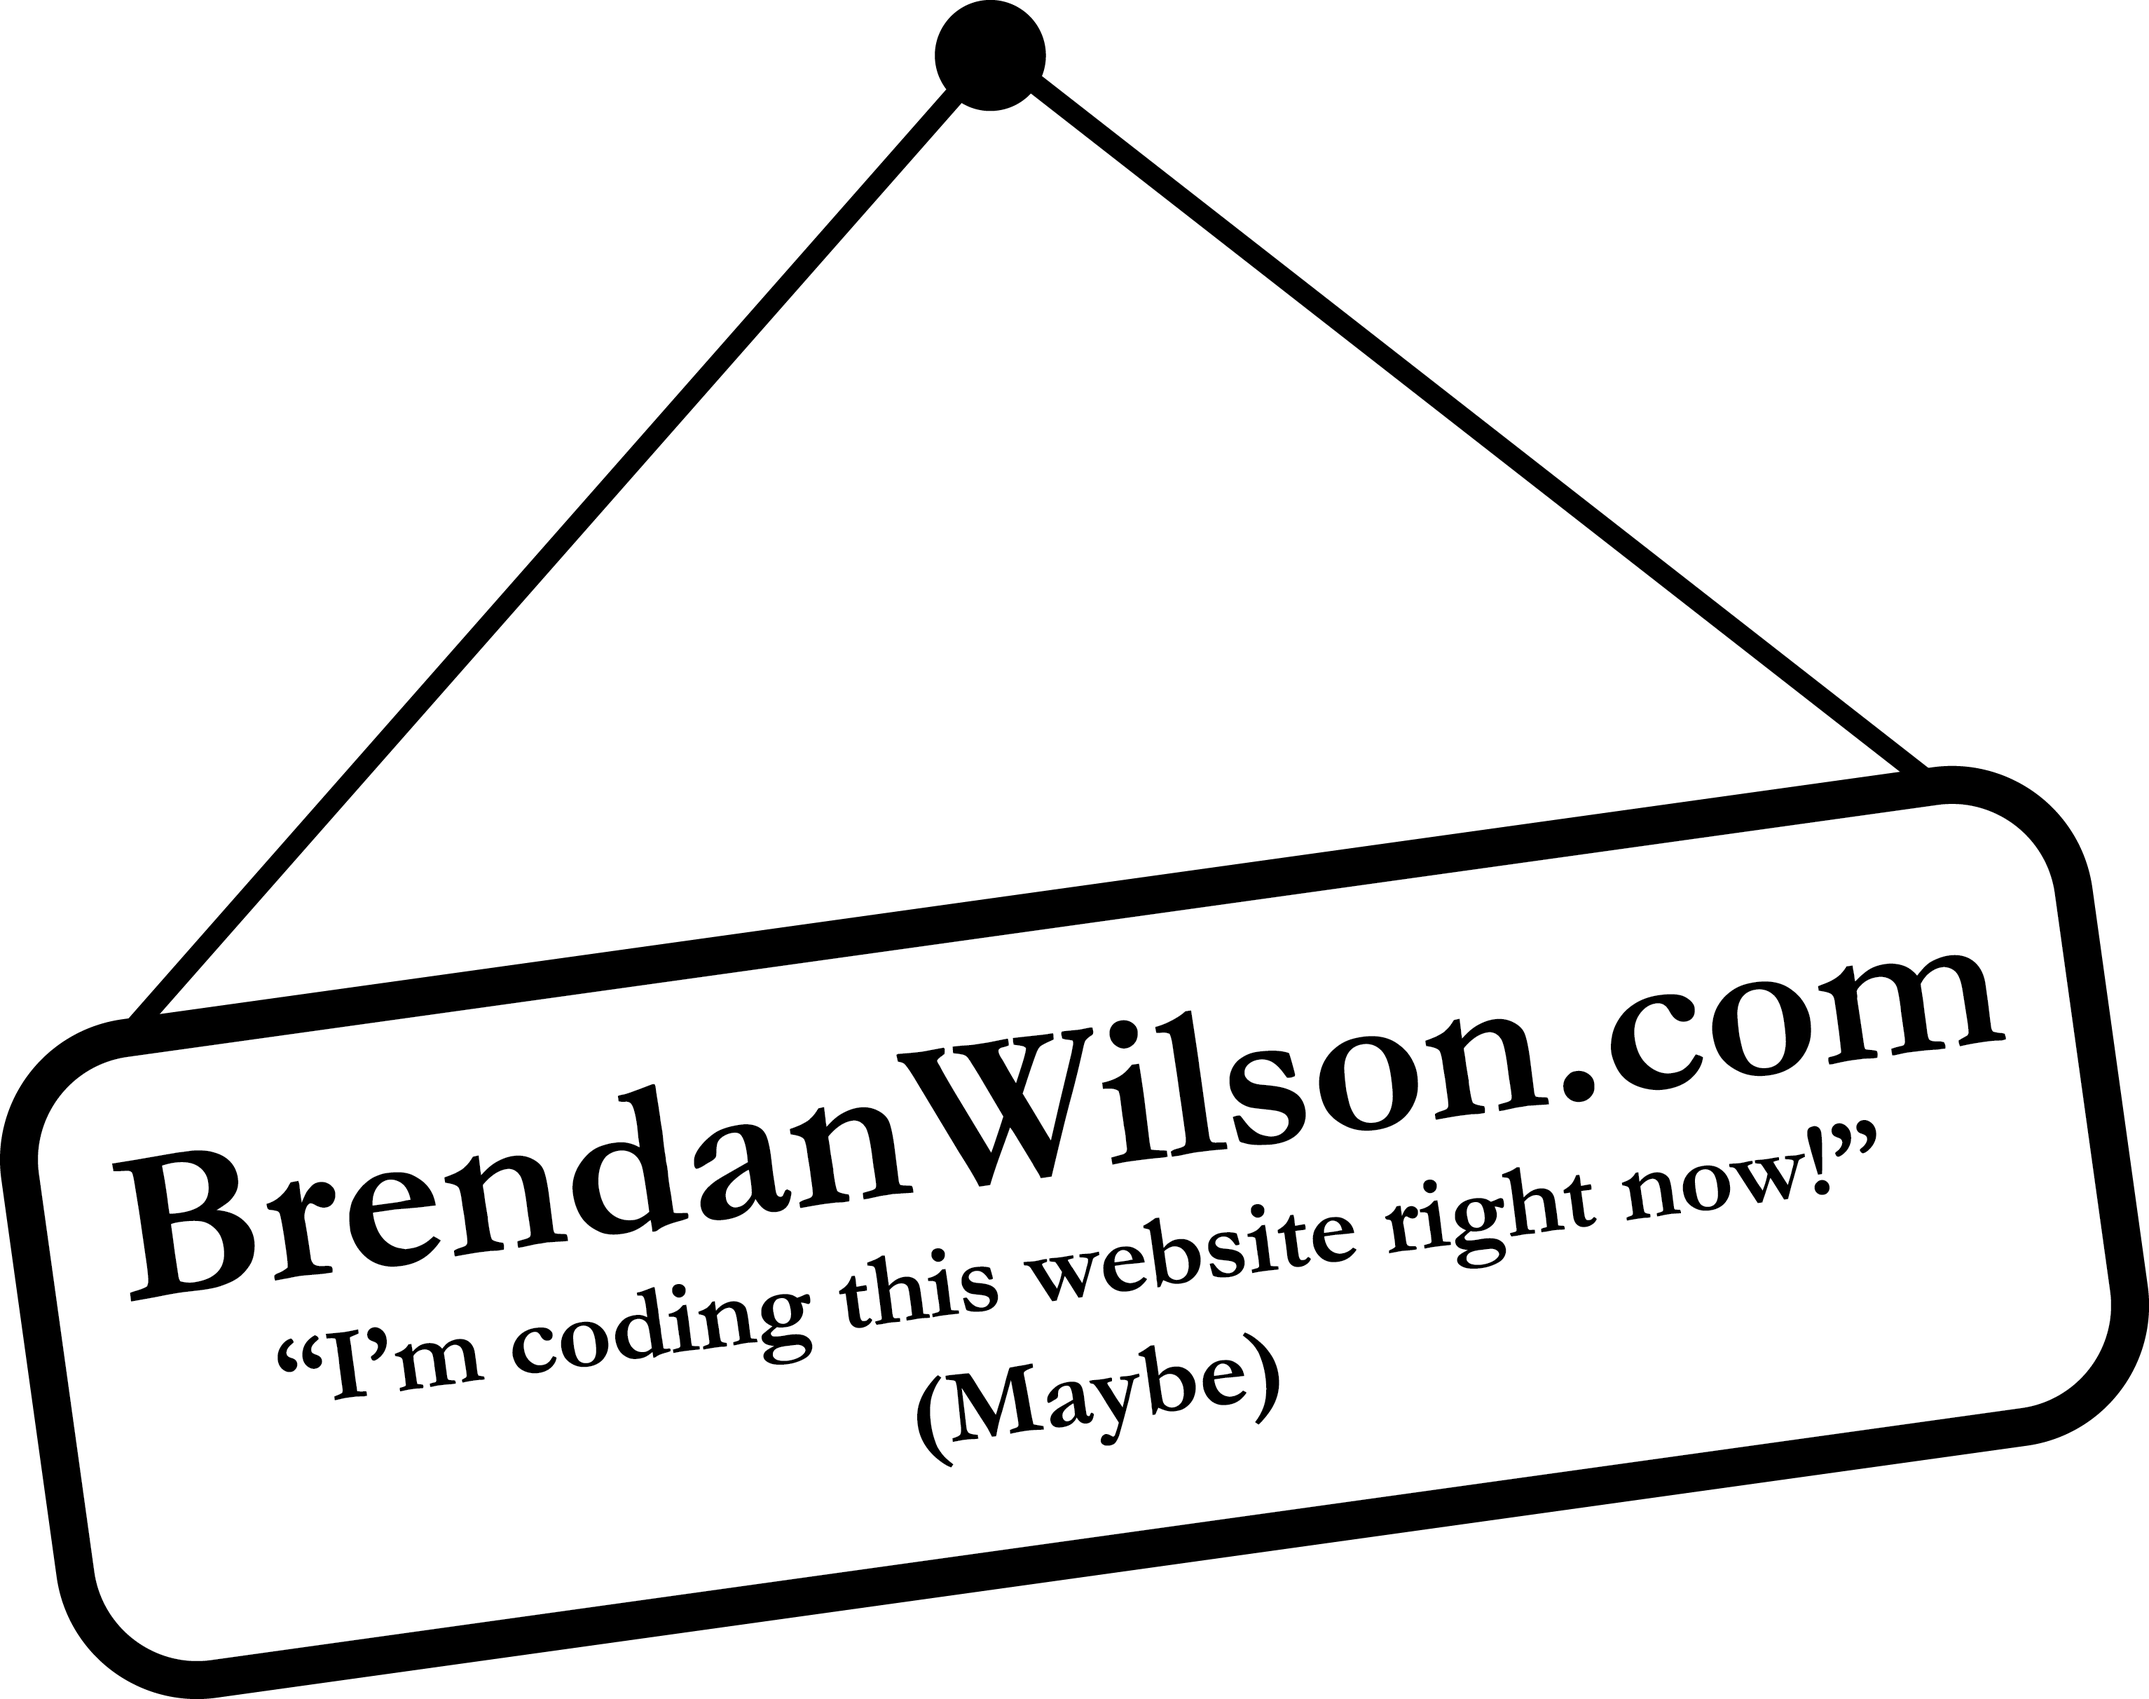
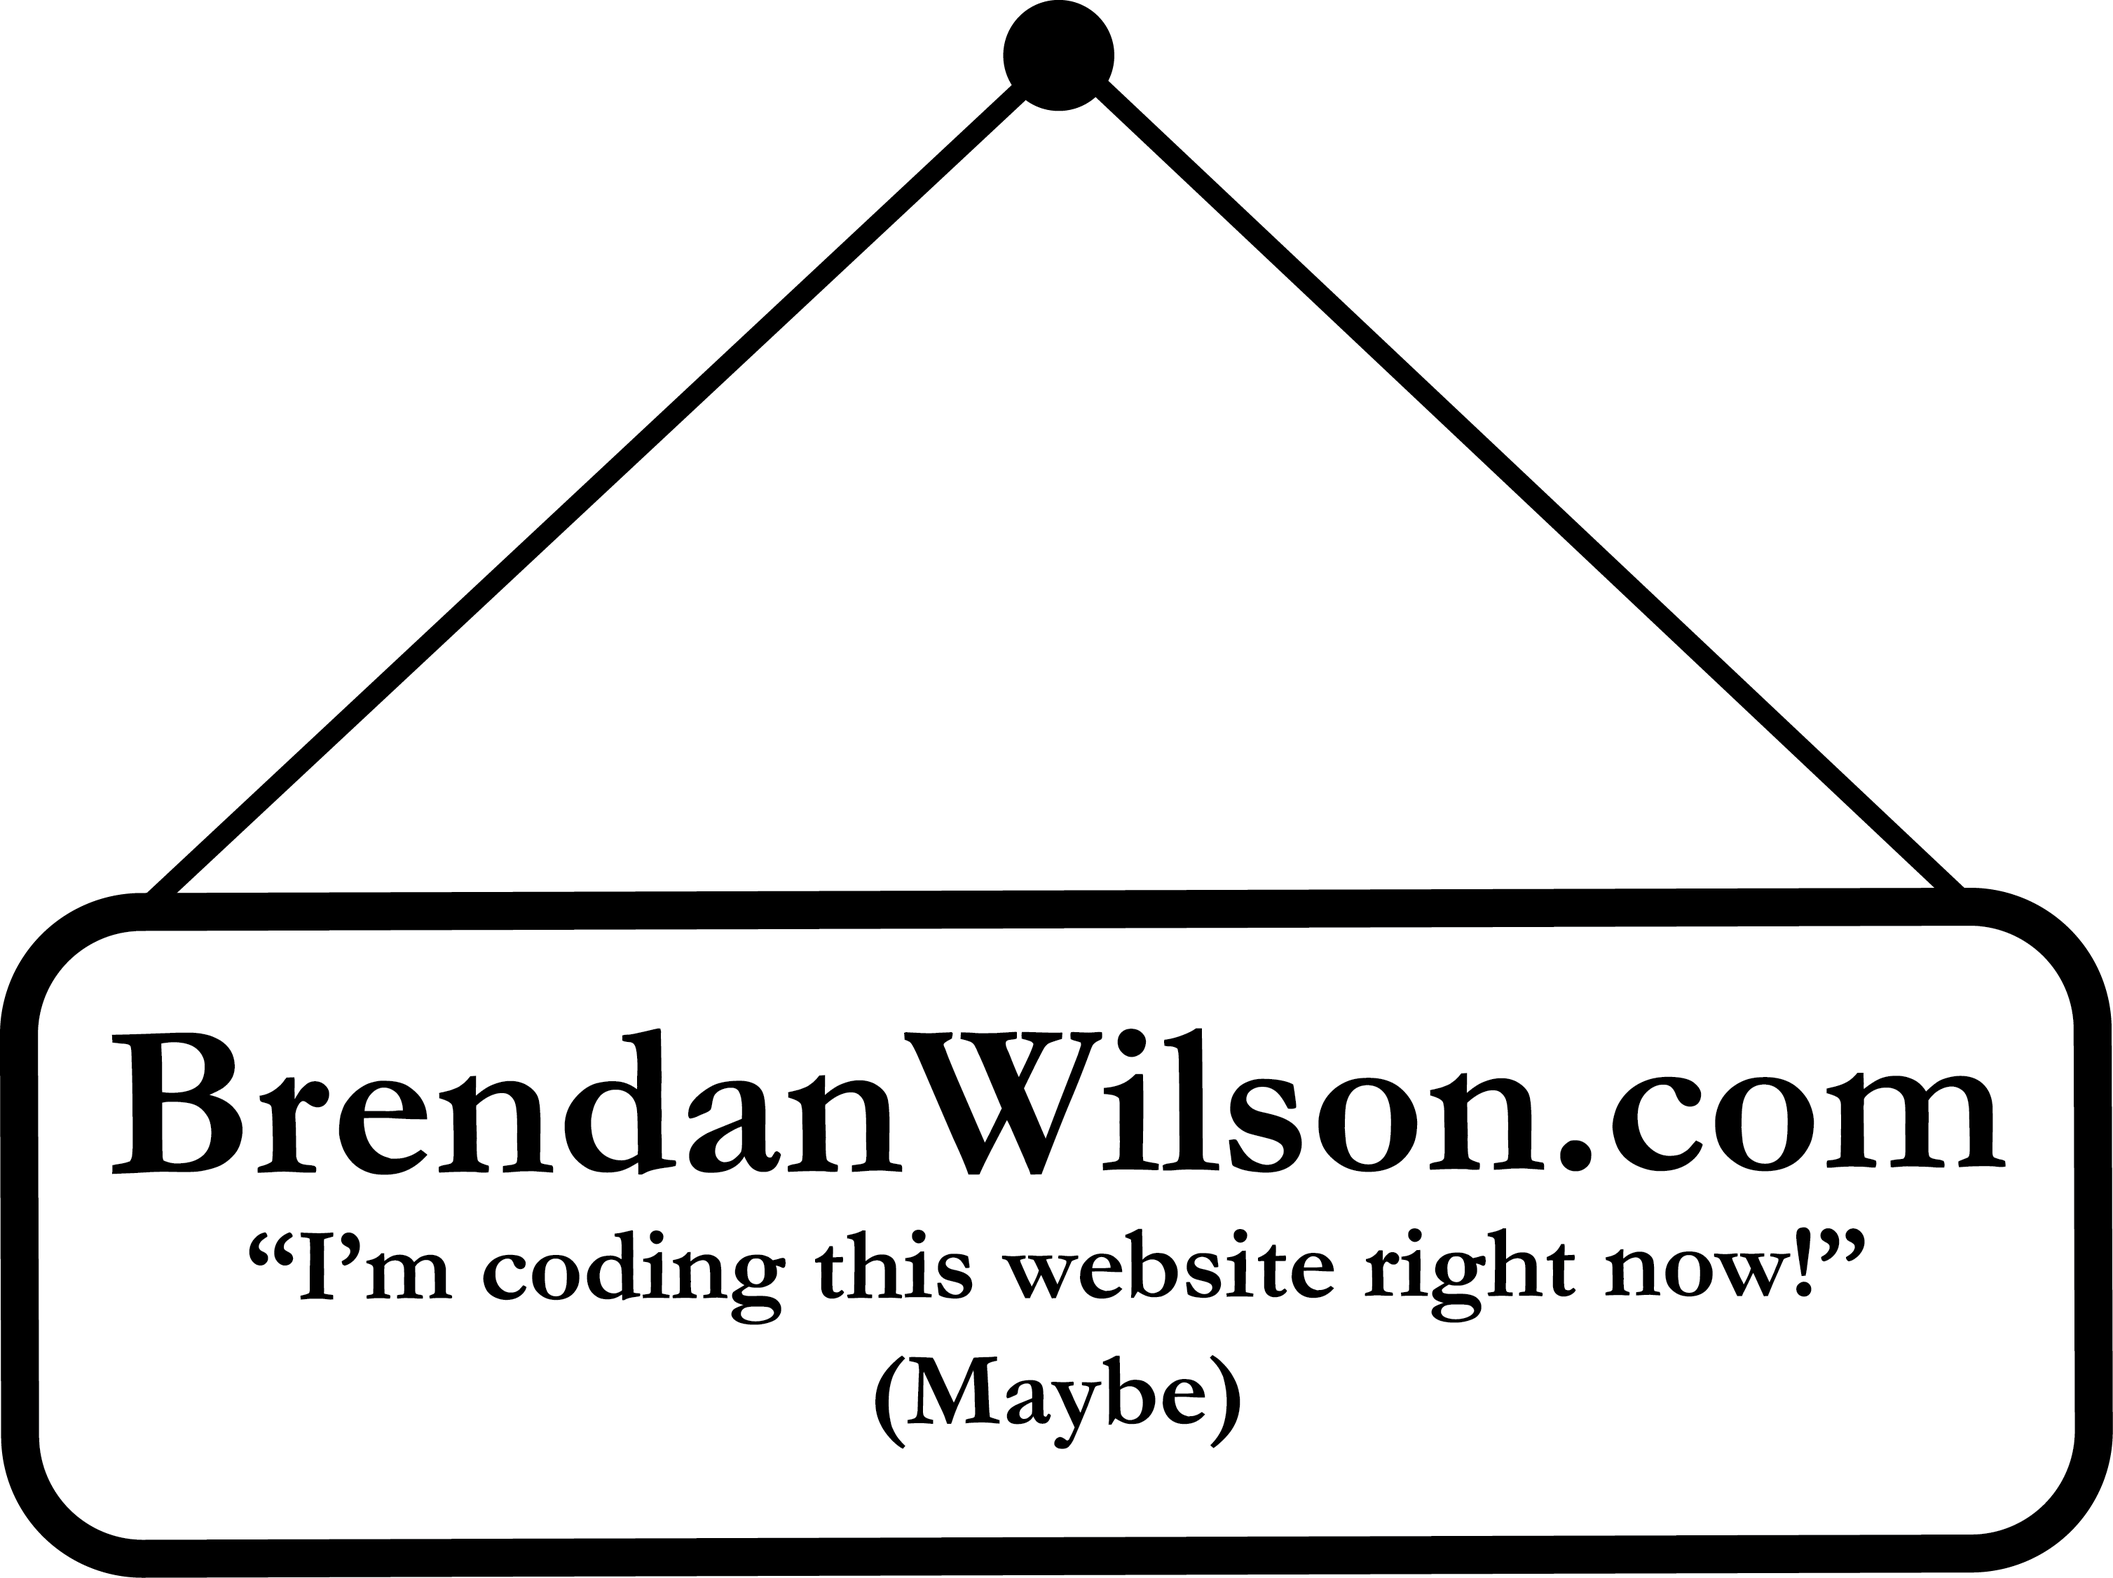
rotation bugs, alignment

Changed region(s): [[0.0, 0.2176, 1.0, 1.0], [0.1871, 0.0, 0.6235, 0.4352]]

diff --git a/css/main.css b/css/main.css
@@ -55,26 +55,29 @@ html {
     -ms-filter: drop-shadow(-10px 10px 6px rgba(0,0,0,.6));
     -o-filter: drop-shadow(-10px 10px 6px rgba(0,0,0,.6));
     filter: drop-shadow(-10px 10px 6px rgba(0,0,0,.6));
-	transform: translateX(0);
-    -webkit-animation: swing 2s ease-in-out infinite alternate;
-	
+	animation: swing 3s ease-in-out infinite alternate;
+    -webkit-animation: swing 3s ease-in-out infinite alternate;
+	transform-origin: top;
+	max-width: 30em;
+	margin: 0 auto;
+	text-align: center;
 }
 
 @-webkit-keyframes swing {
-    0% {
-        -webkit-transform: translateX(0);
+    from {
+        -webkit-transform: rotate(0deg);
     }
-    100% {
-        -webkit-transform: translateX(15px);
+    to {
+        -webkit-transform: rotate(3deg);
     }
 }
 
 @keyframes swing {
-    0% {
-        transform: translateX(0)
+    from {
+        transform: rotate(0deg)
     }
-    100% {
-        transform: translateX(15px);
+    to {
+        transform: rotate(3deg);
     }
 }
 

diff --git a/index.html b/index.html
@@ -14,7 +14,7 @@
 		
 		<header class="wood">
 			<div class="sign pad-t-2">
-				<img src="../coming-soon/images/sign.png" alt="Brendan Wilson Sign" class="maybe island">
+				<img src="../coming-soon/images/sign.svg" alt="Brendan Wilson Sign" class="maybe">
 			</div>
 		
 			<p class="about pad-t pad-b-2">Thank you for visiting my website, even though it's not quite finished. I'm working hard to finish it so please come back soon and check out a plethora of manufactured goodness. I design, create and manufacture everything from clothing to product packaging and lots more.</p>
